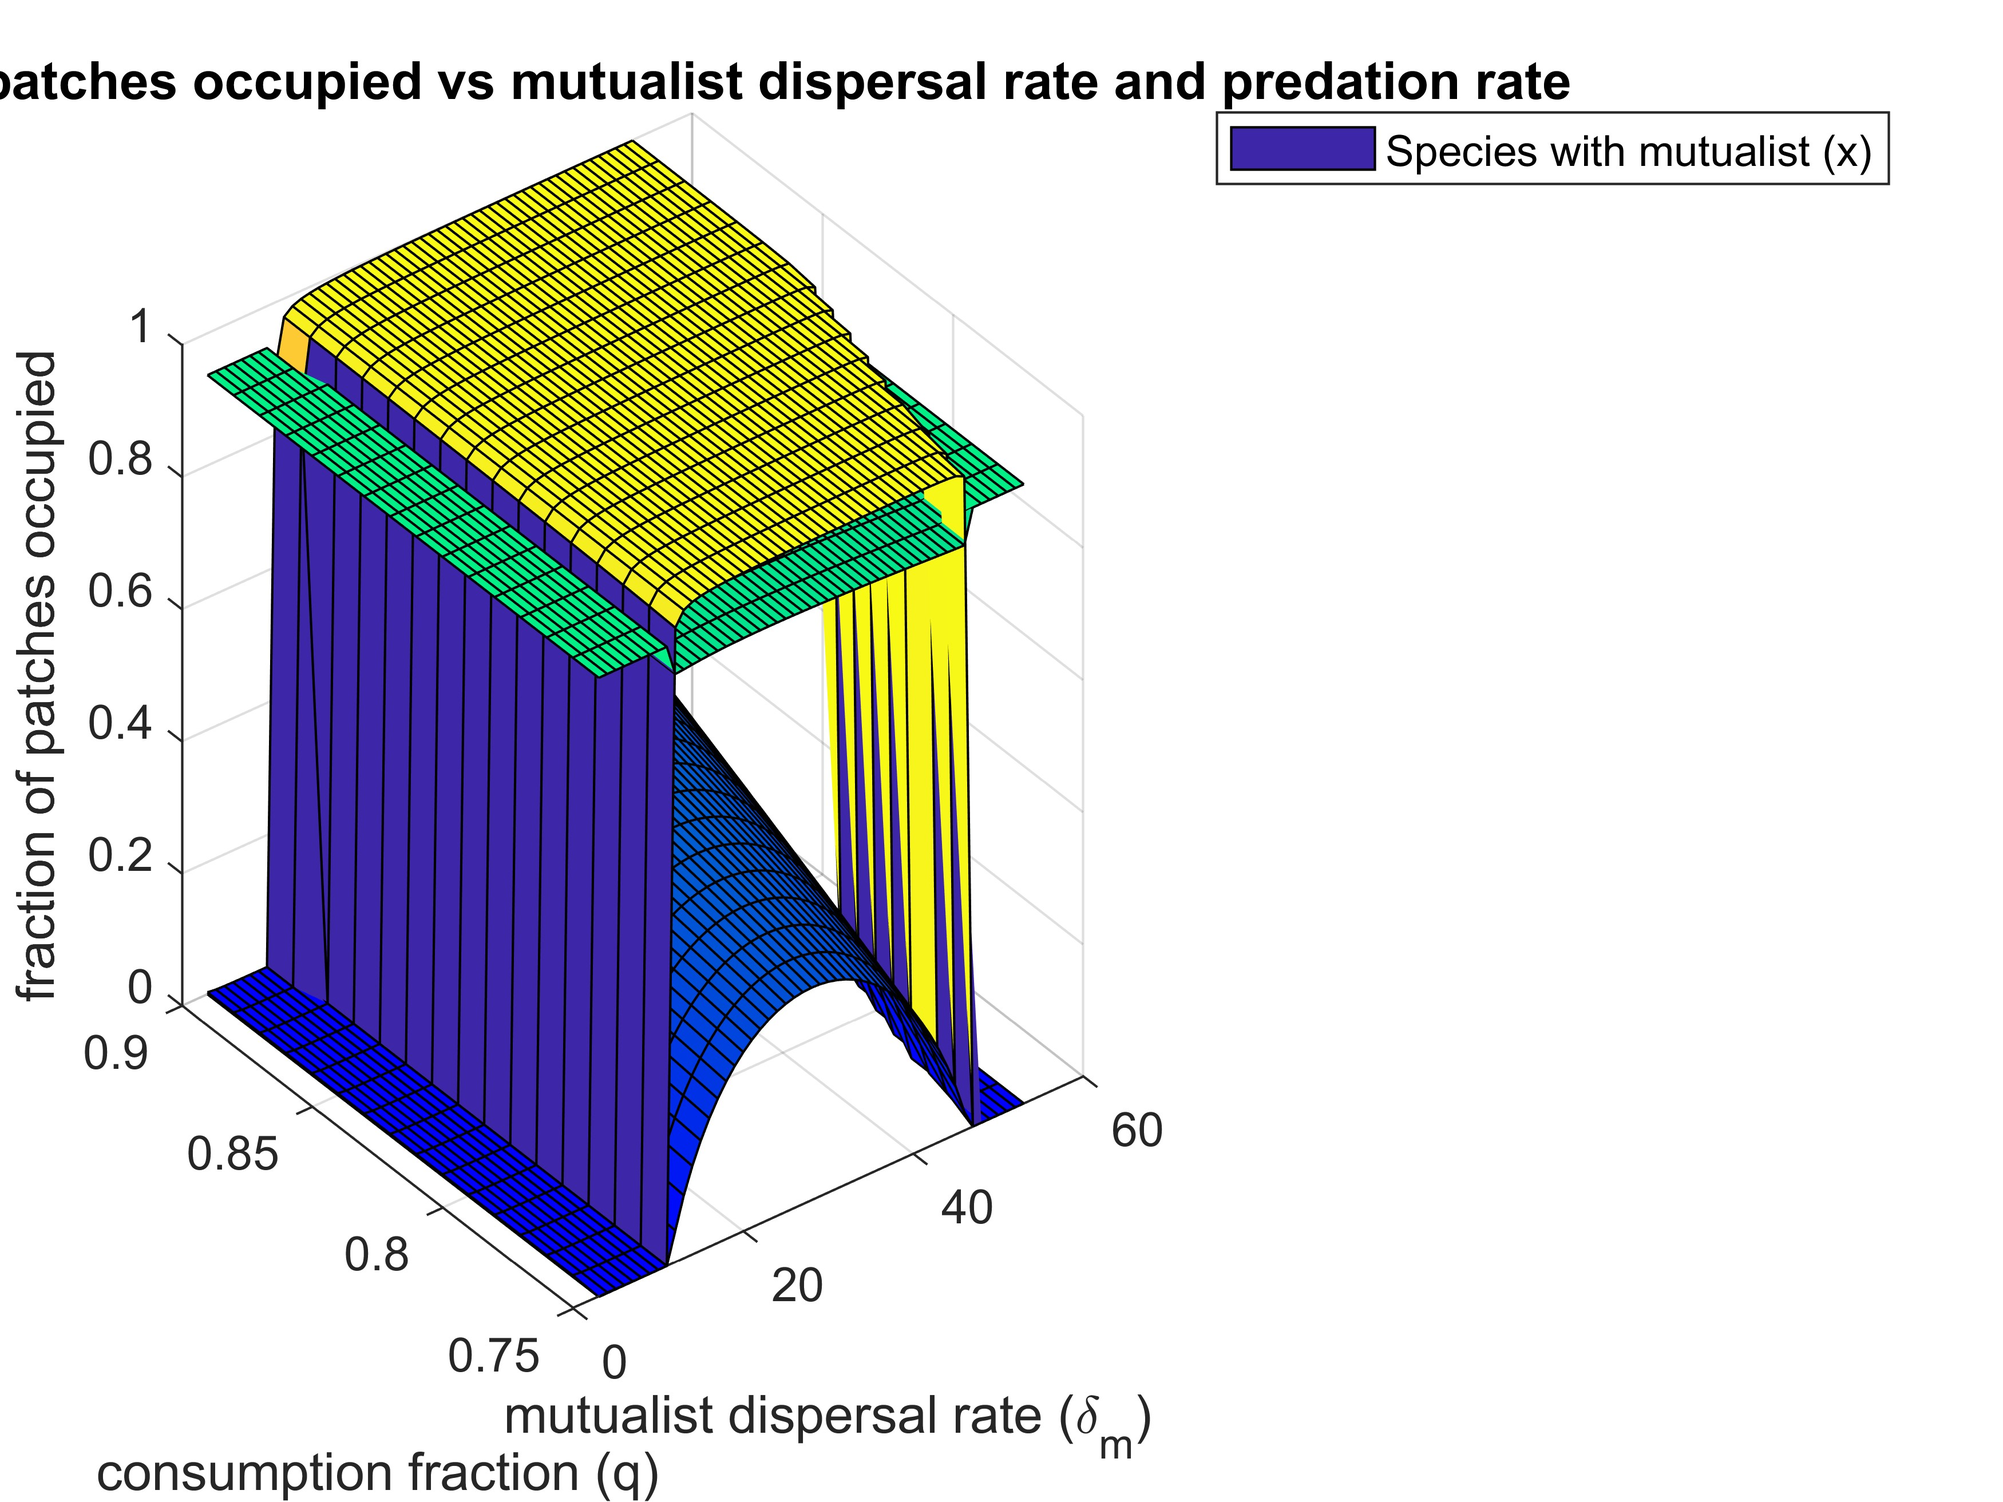
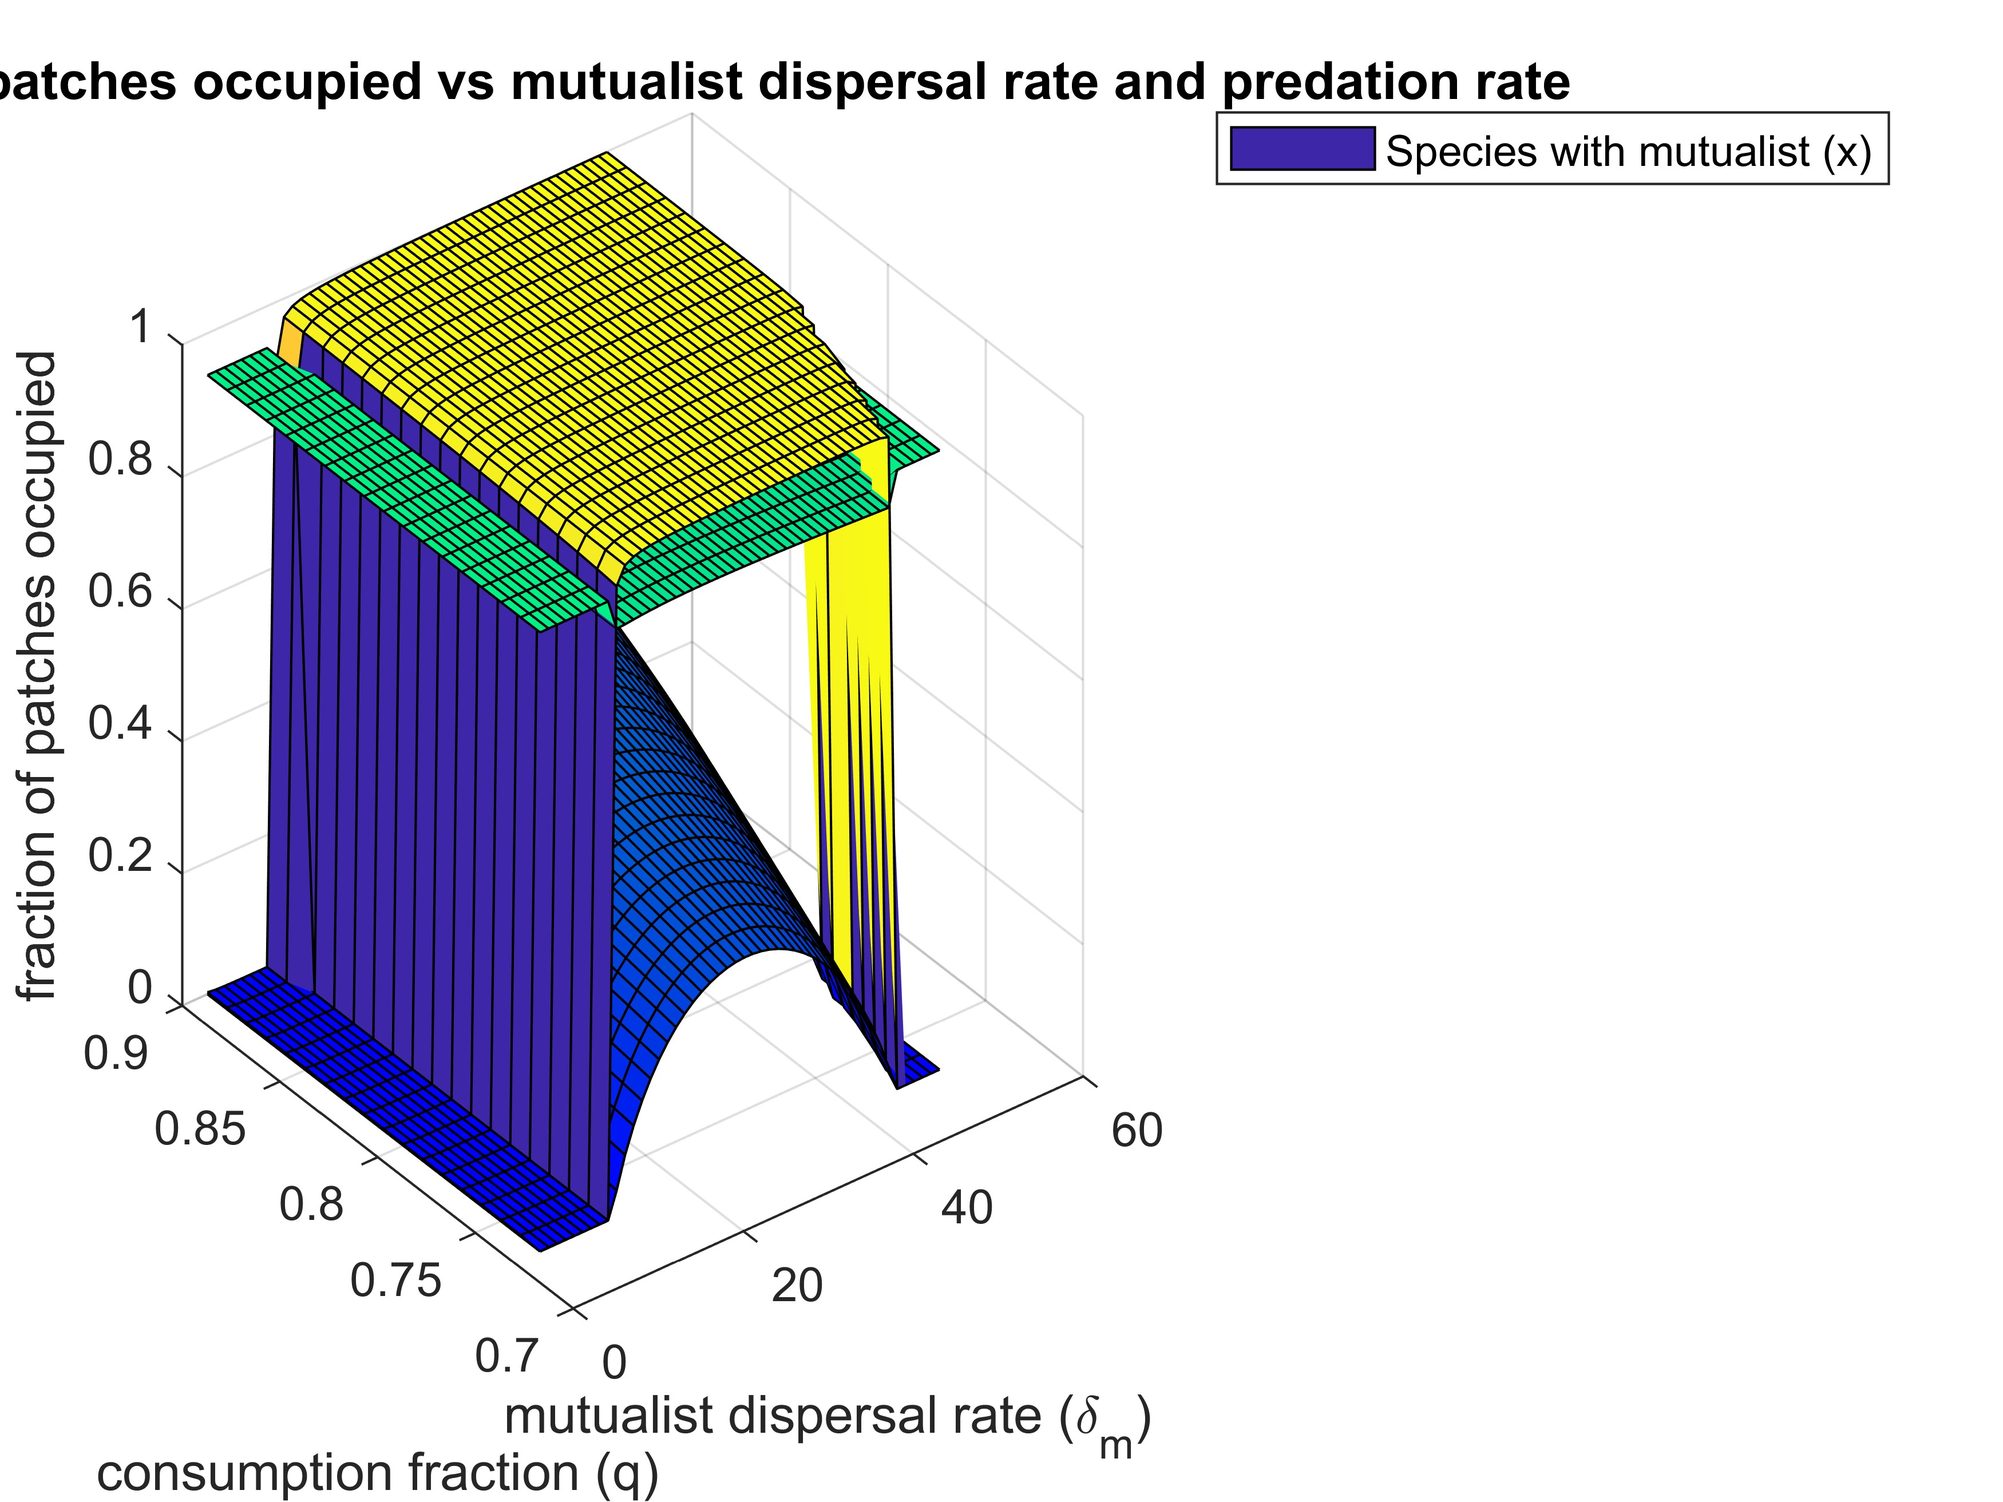
resolution of specialist frugivore case with fig!
-specialist frugivore code now working!
-mat file concatenation also working with fig gridlines removed
-generalist case slightly finicky but working to find the right parameters for stable outputs

Changed region(s): [[0.1246, 0.0937, 0.5294, 0.8747], [0.0934, 0.7185, 0.218, 0.8747], [0.218, 0.8747, 0.2803, 0.9059]]

diff --git a/vectorized_disp_mutualism_metacommunity_allcombos_generalist.m b/vectorized_disp_mutualism_metacommunity_allcombos_generalist.m
@@ -10,10 +10,10 @@ K_x = 200; K_y = 200; %no point touching this
 
 del_x = 0.01; del_y = 0.05;
 %q = 0.45;
-d_m = 1; a = 0.5;%reducing 'a' reduces dispersal rates where px > py
-del_m = 5:1:20; %I'm only not starting from zero because the computational costs are absurd
+d_m = 1; a = 0.8;%reducing 'a' reduces dispersal rates where px > py
+del_m = 2:0.5:18; %I'm only not starting from zero because the computational costs are absurd
 %a = 0.51:0.01:0.81;%0.7-1.1 seems to work for this fig.
-q = 0.1:0.05:0.4;
+q = 0.6:0.02:0.80;
 [Del,Q] = meshgrid(del_m,q);
 
 Del_col = Del(:); Q_col = Q(:); 
@@ -22,13 +22,13 @@ num_combinations = numel(Q_col);
 
 k_eff = 1.0; %efficiency of dispersing seeds to habitable patches
 
-z_x = 0.7; z_y = 0.7; z_m = 0.3; %scaling factors for patch extinction rates. changing z_m relative to z_x and z_m does not change qual. change results
+z_x = 0.7; z_y = 0.7; z_m = 0.4; %scaling factors for patch extinction rates. changing z_m relative to z_x and z_m does not change qual. change results
 
-e_xmin = 0.05;e_ymin = 0.05; e_mmin = 0.03; e_mxmin = e_xmin; 
+e_xmin = 0.05;e_ymin = 0.05; e_mmin = 0.3; e_mxmin = e_xmin; 
 
-tspan = [0,1000];
+tspan = [0,5000];
 
-k_x = 0.08; k_y = 0.08; k_m = 0.08; %
+k_x = 0.08; k_y = 0.08; k_m = 0.04; %
 
 x_init = 0.1; y_init = 0.1; m_init = 0.1;
 
@@ -37,7 +37,7 @@ spp_init_no_y = [x_init; 0; m_init];
 spp_init_no_x = [0; y_init; m_init];
 spp_init = [x_init; y_init; m_init];
 
-f = 0.45; % f is the fraction of diet consumed by frugivore that consists of 'x'. (1-f) is fraction that is 'y'
+f = 0.47; % f is the fraction of diet consumed by frugivore that consists of 'x'. (1-f) is fraction that is 'y'
 %variable collectors across parameter sweeps
 
 % occupancy_del_m = zeros(size(del_m,1),3);
@@ -50,27 +50,27 @@ f = 0.45; % f is the fraction of diet consumed by frugivore that consists of 'x'
 % lambda_collector = zeros(size(del_m,1),1);
 
 %% Local patch dynamics
-thresholdValue = 10^-4;
-options = odeset('Events',@nonNegativeEvent); %options2 =  odeset('Events',@(t, y) eventFunction(t, y, thresholdValue));
+thresholdValue = 10^-6;
+%options = odeset('Events',@nonNegativeEvent); %options2 =  odeset('Events',@(t, y) eventFunction(t, y, thresholdValue));
+options = odeset('NonNegative',[1,2,3]);
 % [t_patch_no_m,local_dens_no_m] = ode45(@(t,y) vectorized_LocalSpeciesInteraction(t,y,r_x,r_y,alpha_xy,alpha_yx, K_x, K_y, del_x, del_y, Del_col', a, Q_col', d_m, num_combinations), tspan./10, repmat(spp_init_no_m,1,num_combinations));
 % [t_patch_no_y,local_dens_no_y] = ode45(@(t,y) vectorized_LocalSpeciesInteraction(t,y,r_x,r_y,alpha_xy,alpha_yx, K_x, K_y, del_x, del_y, Del_col', a, Q_col', d_m, num_combinations), tspan./10, repmat(spp_init_no_y,1,num_combinations));
 % [t_patch,local_dens] = ode45(@(t,y)vectorized_LocalSpeciesInteraction(t,y,r_x,r_y,alpha_xy,alpha_yx, K_x, K_y, del_x, del_y,Del_col',a, Q_col', d_m, num_combinations), tspan, repmat(spp_init, 1, num_combinations), options);
 
 % in case the frugivore is a generalist
-[t_patch_no_x,local_dens_no_x] = ode45(@(t,y) vectorized_LocalSpeciesInteraction_generalist(t,y,r_x,r_y,alpha_xy,alpha_yx, K_x, K_y, del_x, del_y, Del_col', a, Q_col', d_m, num_combinations, f), tspan./10, repmat(spp_init_no_x,1,num_combinations), options);
-%% 
-if t_patch_no_x(end) < tspan(end)
-    % Update initial conditions based on the last state
-    initialConditions = local_dens_no_x(end, :)';
-
-    % Solve again starting from the last time point
-    [t_temp, y_temp] = ode45(@(t,y) vectorized_LocalSpeciesInteraction_generalist(t,y,r_x,r_y,alpha_xy,alpha_yx, K_x, K_y, del_x, del_y, Del_col', a, Q_col', d_m, num_combinations, f), [t_patch_no_x(end) tspan(end)./10], initialConditions, options);
-    % Concatenate the results
-    t_patch_no_x = [t_patch_no_x; t_temp(2:end)];  % Avoid duplicating the common time point
-    local_dens_no_x = [local_dens_no_x; y_temp(2:end, :)];
-end
-[t_patch_no_m,local_dens_no_m] = ode45(@(t,y) vectorized_LocalSpeciesInteraction_generalist(t,y,r_x,r_y,alpha_xy,alpha_yx, K_x, K_y, del_x, del_y, Del_col', a, Q_col', d_m, num_combinations, f), tspan./10, repmat(spp_init_no_m,1,num_combinations), options);
-[t_patch_no_y,local_dens_no_y] = ode45(@(t,y) vectorized_LocalSpeciesInteraction_generalist(t,y,r_x,r_y,alpha_xy,alpha_yx, K_x, K_y, del_x, del_y, Del_col', a, Q_col', d_m, num_combinations, f), tspan./10, repmat(spp_init_no_y,1,num_combinations), options);
+[t_patch_no_x,local_dens_no_x] = ode45(@(t,y) vectorized_LocalSpeciesInteraction_generalist(t,y,r_x,r_y,alpha_xy,alpha_yx, K_x, K_y, del_x, del_y, Del_col', a, Q_col', d_m, num_combinations, f), tspan, repmat(spp_init_no_x,1,num_combinations), options);
+% if t_patch_no_x(end) < tspan(end)
+%     % Update initial conditions based on the last state
+%     initialConditions = local_dens_no_x(end, :)';
+% 
+%     % Solve again starting from the last time point
+%     [t_temp, y_temp] = ode45(@(t,y) vectorized_LocalSpeciesInteraction_generalist(t,y,r_x,r_y,alpha_xy,alpha_yx, K_x, K_y, del_x, del_y, Del_col', a, Q_col', d_m, num_combinations, f), [t_patch_no_x(end) tspan(end)./10], initialConditions, options);
+%     % Concatenate the results
+%     t_patch_no_x = [t_patch_no_x; t_temp(2:end)];  % Avoid duplicating the common time point
+%     local_dens_no_x = [local_dens_no_x; y_temp(2:end, :)];
+% end
+[t_patch_no_m,local_dens_no_m] = ode45(@(t,y) vectorized_LocalSpeciesInteraction_generalist(t,y,r_x,r_y,alpha_xy,alpha_yx, K_x, K_y, del_x, del_y, Del_col', a, Q_col', d_m, num_combinations, f), tspan, repmat(spp_init_no_m,1,num_combinations), options);
+[t_patch_no_y,local_dens_no_y] = ode45(@(t,y) vectorized_LocalSpeciesInteraction_generalist(t,y,r_x,r_y,alpha_xy,alpha_yx, K_x, K_y, del_x, del_y, Del_col', a, Q_col', d_m, num_combinations, f), tspan, repmat(spp_init_no_y,1,num_combinations), options);
 [t_patch,local_dens] = ode45(@(t,y)vectorized_LocalSpeciesInteraction_generalist(t,y,r_x,r_y,alpha_xy,alpha_yx, K_x, K_y, del_x, del_y,Del_col',a, Q_col', d_m, num_combinations, f), tspan, repmat(spp_init, 1, num_combinations), options);
 
 num_timepoints_no_x = length(t_patch_no_x);
@@ -79,9 +79,15 @@ num_timepoints_no_y = length(t_patch_no_y);
 num_timepoints = length(t_patch);
 
 local_dens_no_x_3d = reshape(local_dens_no_x(end,:),[],num_combinations);
+local_dens_no_x_3d(3, local_dens_no_x_3d (3,:) < thresholdValue) = 0;
+
 local_dens_no_m_3d = reshape(local_dens_no_m(end,:),[],num_combinations);
+
 local_dens_no_y_3d = reshape(local_dens_no_y(end,:),[],num_combinations);
+local_dens_no_y_3d(3, local_dens_no_y_3d (3,:) < thresholdValue) = 0; %to prevent torture by numerically minuscule values that are biologically irrelevant
+
 local_dens_3d = reshape(local_dens(end,:),[],num_combinations);
+local_dens_3d(3, local_dens_3d (3,:) < thresholdValue) = 0;
 
 %      figure()
 %      plot(t_patch,local_dens)
@@ -94,7 +100,8 @@ e_x0 = e_xmin;e_y0 = e_ymin;
 e_xy = e_xmin.*((K_x./(local_dens_no_m_3d(1,:))).^z_x); e_yx = e_ymin.*((K_y./(local_dens_no_m_3d(2,:))).^z_y);
 e_xm = e_xmin.*((K_x./(local_dens_no_y_3d(1,:))).^z_x); e_ym = e_ymin.*((K_y./(local_dens_no_x_3d(2,:))).^z_y);
 e_xym = e_xmin.*(K_x./(local_dens_3d(1,:))).^z_x; e_yxm = e_ymin.*(K_y./(local_dens_3d(2,:))).^z_y;
-e_mx = e_mmin.*(K_x./(local_dens_no_y_3d(3,:))).^z_m; e_mxy = e_mmin.*(K_x./(local_dens_3d(3,:))).^z_m; %assume max population size of mutualist is similar to that of x and y
+e_mx = e_mmin.*(K_x./(local_dens_no_y_3d(3,:))).^z_m; e_my = e_mmin.*(K_x./(local_dens_no_x_3d(3,:))).^z_m; 
+e_mxy = e_mmin.*(K_x./(local_dens_3d(3,:))).^z_m; %assume max population size of mutualist is similar to that of x and y
     
 %mu = e_mx - e_x;
 
@@ -126,9 +133,16 @@ c_mxy = k_m.*Del_col'.*local_dens_3d(3,:);%all species present
 %lambda = c_mx-c_x;
 %%
 frac_occup_init = [0.1,0.1,0.1];
-%options2 = odeset('NonNegative',[1,2,3]);
-[t_syst, frac_occup] = ode45(@(t,y)vectorized_BetweenPatchDynamics_allcombos(t,y, c_x0, c_xm, c_xym, c_xy, c_y0, c_ym, c_yxm, c_yx, c_mx, c_mxy, c_my, e_x0, e_xy, e_xm, e_xym, e_y0,...
-    e_yx, e_ym, e_yxm, e_mx, e_mxy, num_combinations), tspan_meta, repelem(frac_occup_init,num_combinations));
+IC_betweenpatch = repelem(frac_occup_init,num_combinations);
+IC_betweenpatch = reshape(IC_betweenpatch,[],num_combinations);
+options2 = odeset('NonNegative',[1,2,3]);
+if any(e_mxy == inf) || any(e_mx ==inf) || any(e_my == inf)
+    IC_betweenpatch(3,find(e_mx == inf)) = 0;
+    IC_betweenpatch(3,find(e_my == inf)) = 0;
+    IC_betweenpatch(3,find(e_mxy == inf)) = 0;
+end
+[t_syst, frac_occup] = ode45(@(t,y)vectorized_BetweenPatchDynamics_allcombos(t,y, c_x0, c_xm, c_xym, c_xy, c_y0, c_ym, c_yxm, c_yx, c_mx, c_mxy, c_my, e_x0, e_xy, e_xm, e_xym, e_y0, e_yx, e_ym, e_yxm, ...
+    e_mx, e_mxy, e_my, num_combinations), tspan_meta, IC_betweenpatch(:), options2);
 
 
 num_tpts_t_syst = length(t_syst); frac_occup_3d = reshape(frac_occup(end,:), [],num_combinations);
@@ -145,6 +159,9 @@ num_tpts_t_syst = length(t_syst); frac_occup_3d = reshape(frac_occup(end,:), [],
 % gamma(i,1) = (0.5..*((lambda.*(1+(e_m../c_m))+c_x)-(e_x+mu)))../(c_x+lambda);%0.5.*(1-((mu-e_x-e_m)./(c_x+c_m)));
 % eta2(i,:) = 4.*(e_m../c_m).*((mu-lambda)../(c_x+lambda));
 %save ("vectorized_q_del_m_varied.mat")
+%save (sprintf('generalist_occupancy_qlow_%d_qhi_%d_delmlo_%d_delmhi_%d.mat',q(1)*100,q(end)*100,del_m(1),del_m(end)),'Del','Q','frac_occup_3d','q','del_m');
+
+
 %% surface plot
 figure()
 surf(Del, Q, reshape(frac_occup_3d(1,:),numel(q),numel(del_m)))
@@ -161,4 +178,4 @@ zlabel('fraction of patches occupied')
 title('Fraction of patches occupied vs mutualist dispersal rate and predation rate')
 legend('Species with mutualist (x)')%, 'Species without mutualist (y)', 'mutualist (m)', 'location', 'best' )
 %fig1name = sprintf('occupancy_vs_del_m.jpeg');
-print('vectorized_occupancy_q_3d_vs_del_m','-djpeg','-r600')
+print('generalist_vector_occup_q_vs_del_m','-djpeg','-r600')

diff --git a/vectorized_disp_mutualism_metacommunity_allcombos.m b/vectorized_disp_mutualism_metacommunity_allcombos.m
@@ -13,7 +13,7 @@ del_x = 0.01; del_y = 0.05;
 d_m = 0.01; a = 0.8;%reducing 'a' reduces dispersal rates where px > py
 del_m = 3:1:53; %I'm only not starting from zero because the computational costs are absurd
 %a = 0.51:0.01:0.81;%0.7-1.1 seems to work for this fig.
-q = 0.75:0.01:0.90;
+q = 0.73:0.01:0.80;
 [Del,Q] = meshgrid(del_m,q);
 
 Del_col = Del(:); Q_col = Q(:); 
@@ -56,11 +56,9 @@ options = odeset('NonNegative',[1,2,3]);%,'Events',@nonNegativeEvent);
 % [t_patch_no_y,local_dens_no_y] = ode45(@(t,y) vectorized_LocalSpeciesInteraction(t,y,r_x,r_y,alpha_xy,alpha_yx, K_x, K_y, del_x, del_y, Del_col', a, Q_col', d_m, num_combinations), tspan./10, repmat(spp_init_no_y,1,num_combinations));
 % [t_patch,local_dens] = ode45(@(t,y)vectorized_LocalSpeciesInteraction(t,y,r_x,r_y,alpha_xy,alpha_yx, K_x, K_y, del_x, del_y,Del_col',a, Q_col', d_m, num_combinations), tspan, repmat(spp_init, 1, num_combinations), options);
 
-% in case the frugivore is a generalist
+% in case the frugivore is a generalist (or specialist if f=1)
 [t_patch_no_m,local_dens_no_m] = ode45(@(t,y) vectorized_LocalSpeciesInteraction_generalist(t,y,r_x,r_y,alpha_xy,alpha_yx, K_x, K_y, del_x, del_y, Del_col', a, Q_col', d_m, num_combinations, f), tspan, repmat(spp_init_no_m,1,num_combinations),options);
 [t_patch_no_y,local_dens_no_y] = ode45(@(t,y) vectorized_LocalSpeciesInteraction_generalist(t,y,r_x,r_y,alpha_xy,alpha_yx, K_x, K_y, del_x, del_y, Del_col', a, Q_col', d_m, num_combinations, f), tspan, repmat(spp_init_no_y,1,num_combinations), options);
-
-
 [t_patch,local_dens] = ode45(@(t,y)vectorized_LocalSpeciesInteraction_generalist(t,y,r_x,r_y,alpha_xy,alpha_yx, K_x, K_y, del_x, del_y,Del_col',a, Q_col', d_m, num_combinations, f), tspan, repmat(spp_init, 1, num_combinations), options);
 % while t_patch(end) < tspan(end)
 %     % Update initial conditions based on the last state
@@ -150,7 +148,7 @@ num_tpts_t_syst = length(t_syst); frac_occup_3d = reshape(frac_occup(end,:), [],
 %save ("vectorized_q_del_m_varied.mat")
 %save(strcat(['occupancy_qlow_' num2str(q(1)*100, '%d') '_qhi_' num2str(q(end)*100, '%d') '_delmlo_' num2str(del_m(1), '%d') '_delmhi_' num2str(del_m(end), '%d')]), Del,Q,frac_occup_3d,q,del_m, '-mat');
 
-%save (sprintf('occupancy_qlow_%d_qhi_%d_delmlo_%d_delmhi_%d.mat',q(1)*100,q(end)*100,del_m(1),del_m(end)),'Del','Q','frac_occup_3d','q','del_m');
+save (sprintf('occupancy_qlow_%d_qhi_%d_delmlo_%d_delmhi_%d.mat',q(1)*100,q(end)*100,del_m(1),del_m(end)),'Del','Q','frac_occup_3d','q','del_m');
 
 % save(filename,Del,Q,frac_occup_3d,q,del_m)
 %% surface plot
@@ -170,4 +168,4 @@ zlabel('fraction of patches occupied')
 title('Fraction of patches occupied vs mutualist dispersal rate and predation rate')
 legend('Species with mutualist (x)')%, 'Species without mutualist (y)', 'mutualist (m)', 'location', 'best' )
 %fig1name = sprintf('occupancy_vs_del_m.jpeg');
-print('vectorized_occupancy_q_3d_vs_del_m','-djpeg','-r600')
+print('specialist_occup_q_vs_del_m','-djpeg','-r600')

diff --git a/concatanate_mat_files.m b/concatanate_mat_files.m
@@ -6,15 +6,15 @@ for k = 1:length(matfiles)
   matData(k) = load(baseFileName);
 end
 
-q_local = unique([matData(1).q,matData(2).q,matData(3).q,matData(4).q]);
-del_m_local = unique([matData(1).del_m,matData(2).del_m,matData(3).del_m,matData(4).del_m]);
+% q_local = unique([matData(1).q,matData(2).q,matData(3).q,matData(4).q]);
+% del_m_local = unique([matData(1).del_m,matData(2).del_m,matData(3).del_m,matData(4).del_m]);
 
 %frac_occupied_master = matData.frac_occup_3d;
 
-arrays = {'array1', 'array2','array3', 'array4';...
-    matData(1).frac_occup_3d, matData(2).frac_occup_3d, matData(3).frac_occup_3d,  matData(4).frac_occup_3d;...
-    matData(1).q, matData(2).q, matData(3).q,  matData(4).q;...
-    matData(1).del_m, matData(2).del_m, matData(3).del_m,  matData(4).del_m};
+arrays = {'array1', 'array2','array3', 'array4','array5';...
+    matData(1).frac_occup_3d, matData(2).frac_occup_3d, matData(3).frac_occup_3d,matData(4).frac_occup_3d,matData(5).frac_occup_3d;...
+    matData(1).q, matData(2).q, matData(3).q,  matData(4).q, matData(5).q;...
+    matData(1).del_m, matData(2).del_m, matData(3).del_m,  matData(4).del_m, matData(5).del_m};
 [Del_master, Q_master] = meshgrid(horzcat(arrays{4,:}),horzcat(arrays{3,:}));
 %aa1 = horzcat(arrays{2,:}); aa1 = horzcat(arrays{2,:});
 % Find the array with the maximum size using the max function
@@ -37,14 +37,15 @@ max_cols_array_size = size(max_cols_array_name,2);
 
 %%
 figure()
-for ii = 1:4
-    [row_temp,col_temp] =  meshgrid(matData(ii).del_m,matData(ii).q)
+for ii = 1:5
+    [row_temp,col_temp] =  meshgrid(matData(ii).del_m,matData(ii).q);
     hold on
     toplot_x = matData(ii).frac_occup_3d;
-    surf(row_temp,col_temp,reshape(toplot_x(1,:),size(row_temp,1),[]))
+    surf(row_temp,col_temp,reshape(toplot_x(1,:),size(row_temp,1),[]), 'EdgeColor','none')
+    %grid off
     %surf(arrays,Q_master, reshape(aa,size(Del_master,1),size(Q_master,2)));
     %surf(Del_master,Q_master, reshape(frac_occupied_master(1,:),numel(q_local),numel(del_m_local)))
-    colormap parula; freezeColors;
+    %colormap parula; freezeColors;
     %hold on
     %surf(Del_master,Q_master, reshape(frac_occupied_master(2,:),numel(q_local),numel(del_m_local)))
     %colormap winter; freezeColors;
@@ -57,6 +58,7 @@ zlabel('fraction of patches occupied')
 %xline([1.0 2.6, 10.4, 26.9],'--',{'Exploitative (x extinct)','Mutualism (y fitter)','Mutualism (x fitter)', 'Mutualism (y fitter)'})
 title('Fraction of patches occupied vs mutualist dispersal rate and predation rate')
 legend('Species with mutualist (x)')%, 'Species without mutualist (y)', 'mutualist (m)', 'location', 'best' )
+print('vectorized_occupancy_q_vs_del_m_all','-djpeg','-r600')
 
 
     
